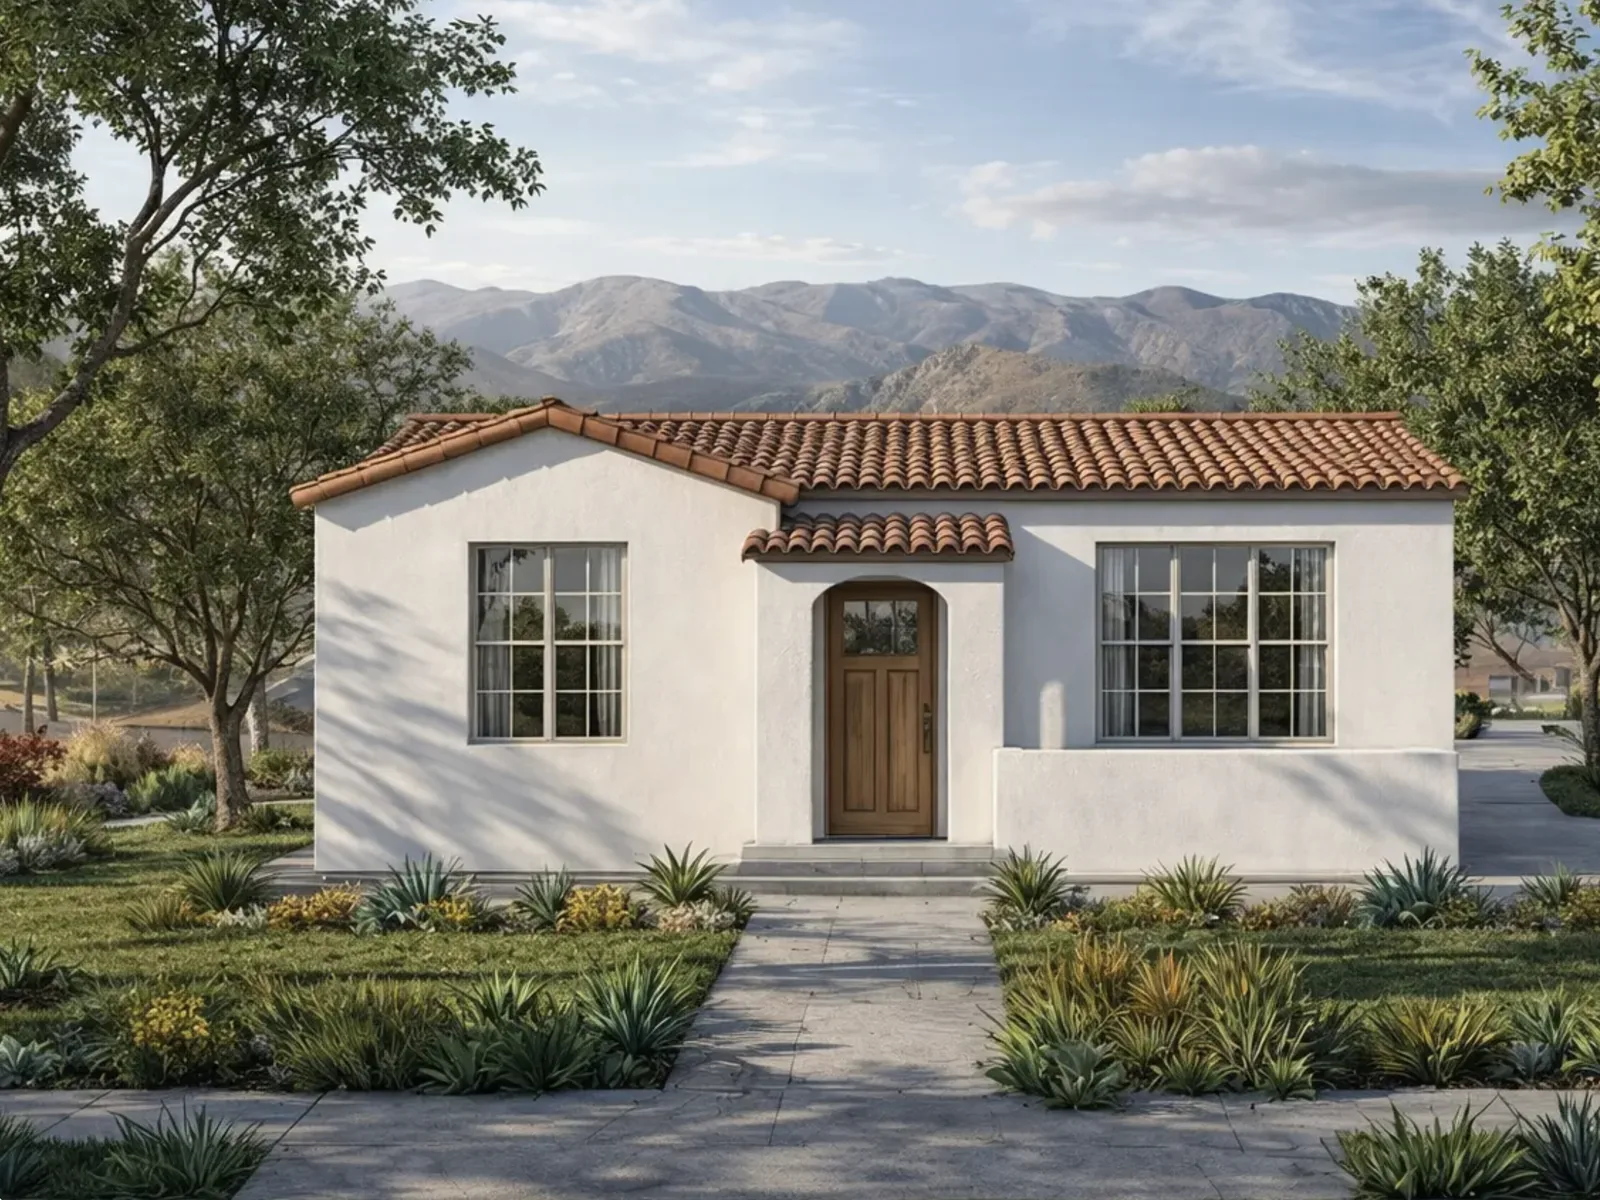
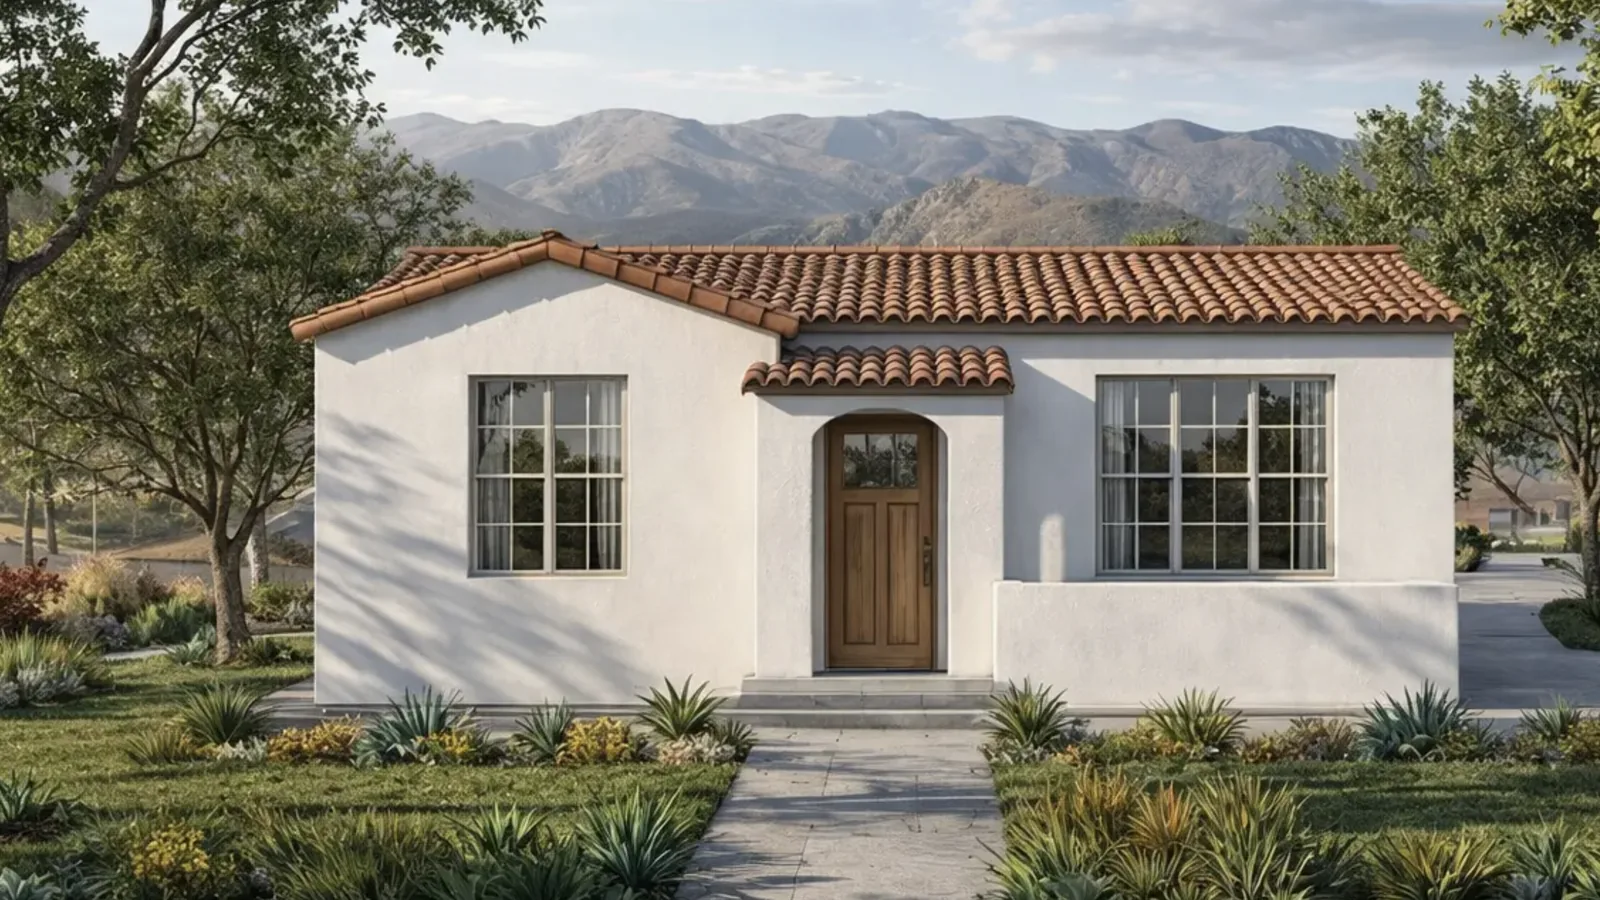
style(home): landscape project cards, 3:2 around a 16:9 image
Cards grow from 1.2 x 1.08 m (near square) to 1.4 x 0.94 m with deeper corners;
the project window's image matches at 16:9, and Pillar's cover is re-cropped to
16:9 from the original render.

diff --git a/src/components/world/ProjectCard.tsx b/src/components/world/ProjectCard.tsx
@@ -20,13 +20,15 @@ import { color, font, regionColor } from "@/design/tokens";
  * A floating glass card, after visionOS windows: a frosted, glossy slab with deep rounded corners, the project's
  * image inset with concentric corners, and its title and role set on the glass below. Sizes are metres.
  */
-const WIDTH = 1.2;
+// Landscape, about 3:2 overall (1.4 × 0.94 m), around a 16:9 image: the shape of screens and video, so product shots
+// and project videos fit without heavy cropping.
+const WIDTH = 1.4;
 const PAD = 0.045;
 const IMAGE_W = WIDTH - 2 * PAD;
-const IMAGE_H = IMAGE_W * 0.75; // 4:3
-const TEXT_H = 0.2;
+const IMAGE_H = (IMAGE_W * 9) / 16;
+const TEXT_H = 0.16;
 const HEIGHT = PAD + IMAGE_H + TEXT_H;
-const RADIUS = 0.12;
+const RADIUS = 0.13; // about a tenth of the width, for deep visionOS-style corners
 const IMAGE_RADIUS = RADIUS - PAD; // concentric with the card's corner
 const DEPTH = 0.016;
 const BEVEL = 0.014;
@@ -123,14 +125,14 @@ function paintFace(ctx: CanvasRenderingContext2D, project: Project, image: HTMLI
   ctx.restore();
 
   const textX = px(PAD + 0.02);
-  const titleY = iy + ih + px(0.088);
+  const titleY = iy + ih + px(0.075);
   ctx.textBaseline = "alphabetic";
   ctx.fillStyle = color.ink;
   ctx.font = `500 ${px(0.058)}px ${font.sans}`;
   ctx.fillText(project.title, textX, titleY, px(IMAGE_W - 0.04));
   ctx.fillStyle = color.ink2;
   ctx.font = `400 ${px(0.042)}px ${font.sans}`;
-  ctx.fillText(project.role, textX, titleY + px(0.065), px(IMAGE_W - 0.04));
+  ctx.fillText(project.role, textX, titleY + px(0.058), px(IMAGE_W - 0.04));
 }
 
 function useFaceTexture(project: Project) {

diff --git a/src/components/world/ProjectWindow.tsx b/src/components/world/ProjectWindow.tsx
@@ -54,7 +54,7 @@ export function ProjectWindow({ project, onClose }: { project: Project; onClose:
         }`}
       >
         {cover && (
-          <div className="relative aspect-[4/3] w-full overflow-hidden rounded-[28px] bg-gallery-shade tablet:aspect-[16/10]">
+          <div className="relative aspect-video w-full overflow-hidden rounded-[28px] bg-gallery-shade">
             <Image src={cover.src} alt={cover.alt} fill sizes="(min-width: 920px) 856px, 100vw" className="object-cover" />
           </div>
         )}
